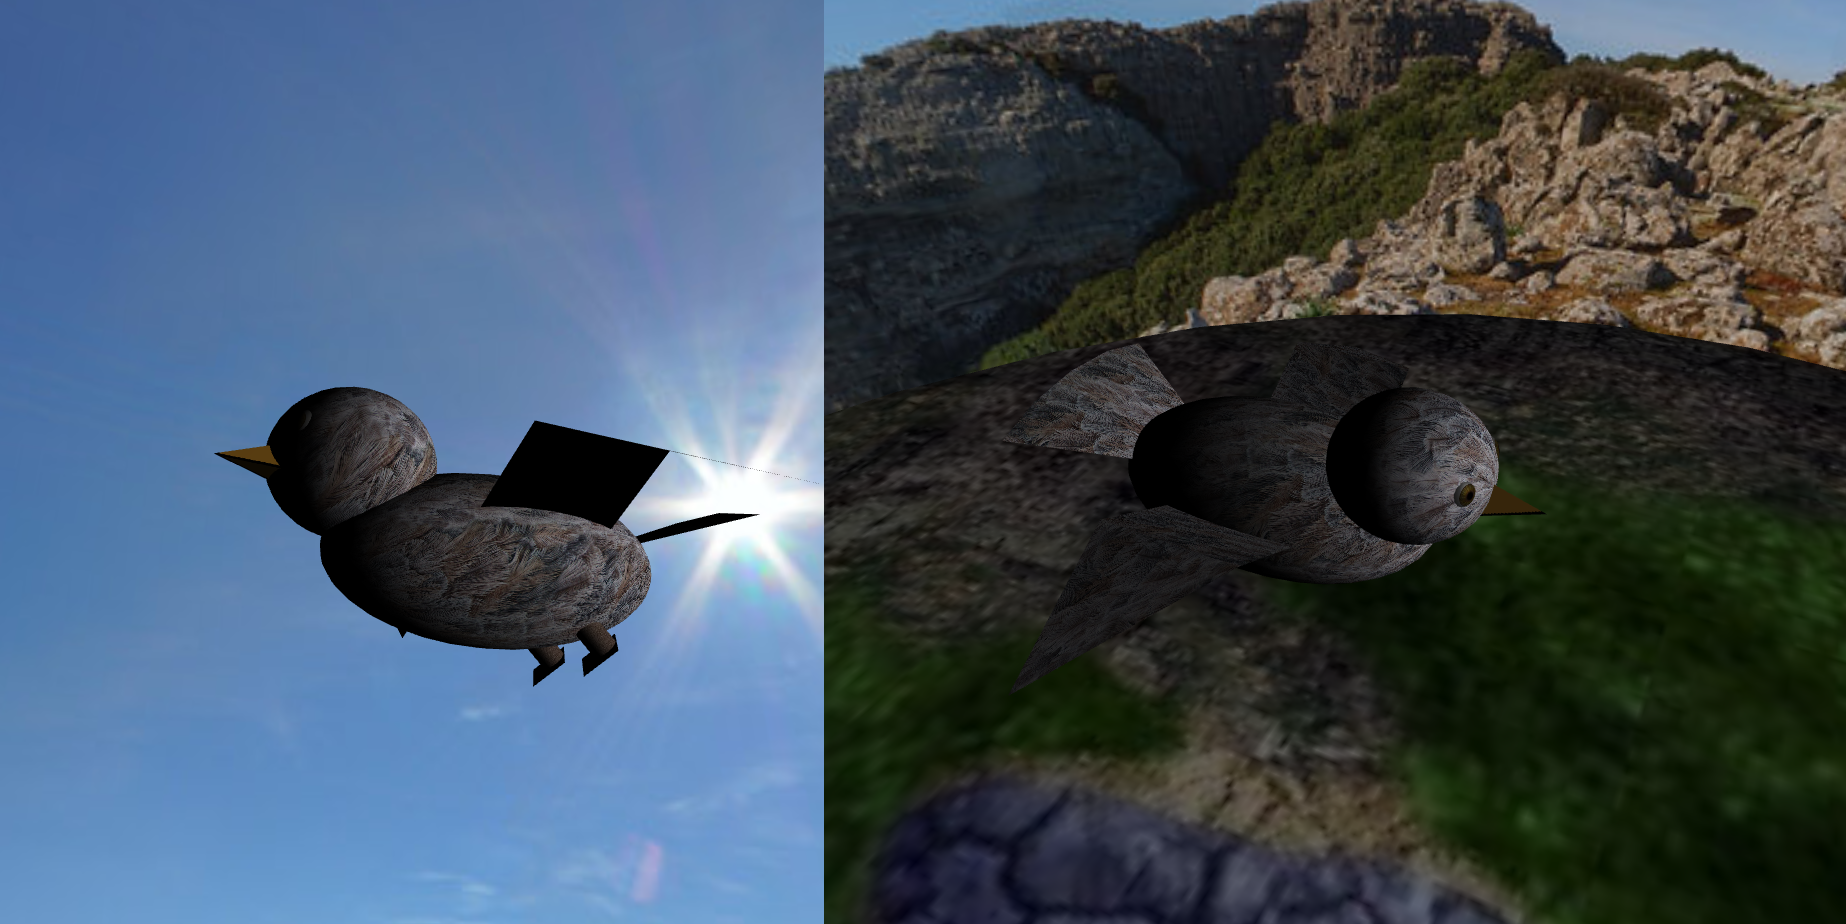
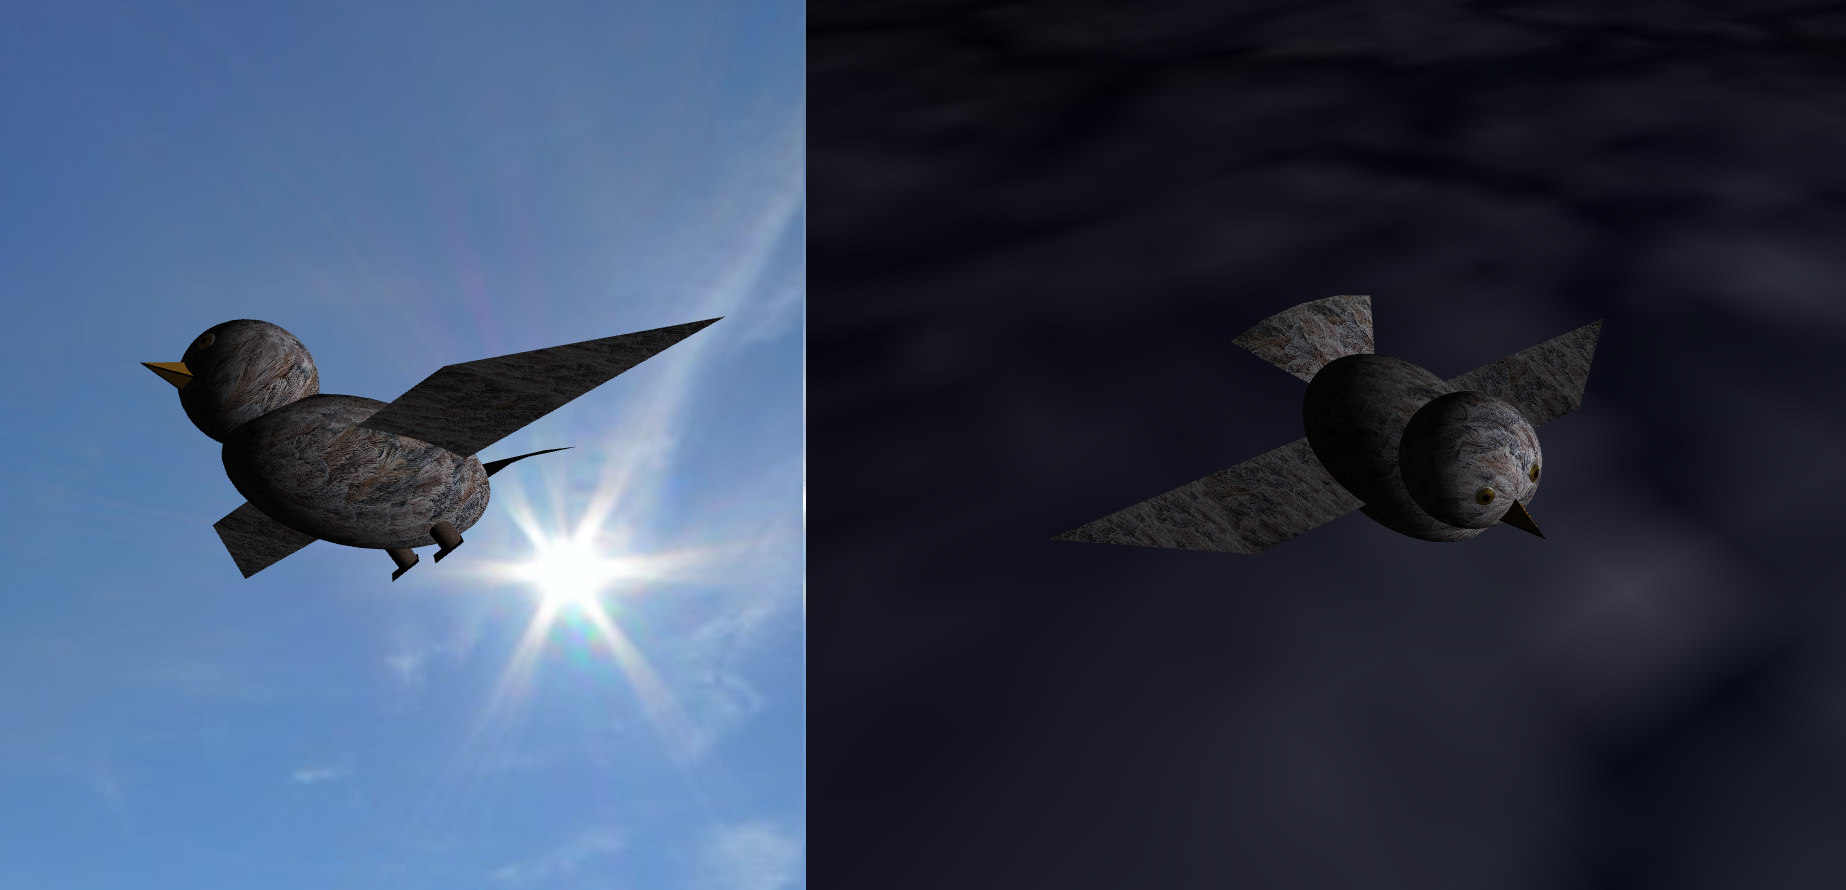
Project - Minor adjustments, updated README.md (3)

diff --git a/project/MyBird.js b/project/MyBird.js
@@ -24,7 +24,7 @@ export class MyBird extends CGFobject {
 
     initParams() {
         this.x = 0;
-        this.y = 3;
+        this.y = 5;
         this.z = 0;
         this.orientation = 0;
 
@@ -56,9 +56,9 @@ export class MyBird extends CGFobject {
     update(t, dt) {
         // Divide 't' and 'dt' by 1000 to convert into seconds.
         // Multiply by 2*Math.PI to get a period of 1 second.
-        this.dy = this.yScale * Math.sin(this.speedFactor * (t / 1000) * 2*Math.PI);
+        this.dy = this.yScale * Math.sin((t/1000) * 2*Math.PI);
         this.dWingAngle = 
-            -Math.sin(this.speedFactor * (1 + this.speed * this.speedScale) * (t / 1000) * 2*Math.PI);
+            -Math.sin(this.speedFactor * (1 + this.speed * this.speedScale) * (t/1000) * 2*Math.PI);
         this.x += this.speed * this.speedFactor * Math.sin(this.orientation) * (dt/1000);
         this.z += this.speed * this.speedFactor * Math.cos(this.orientation) * (dt/1000);   
 
@@ -69,7 +69,7 @@ export class MyBird extends CGFobject {
     }
 
     turn(v) {
-        this.orientation = (this.orientation + v) % (2*Math.PI);
+        this.orientation = (this.orientation + v * this.speedFactor) % (2*Math.PI);
     }
 
     resetBird() {
@@ -243,14 +243,14 @@ class BirdLeg extends CGFobject {
 
     initParts() {
         this.leg = new MyCylinder(this.scene, 24, 8, 1, 1);
-        this.claw = new MyDiamond(this.scene, 1, 1);
+        this.foot = new MyDiamond(this.scene, 1, 1);
     }
     initMaterials() {
         this.skinMaterial = new CGFappearance(this.scene);
         this.skinMaterial.loadTexture('images/skin.jpg');
         this.skinMaterial.setSpecular(0.0, 0.0, 0.0, 1.0);
-        this.skinMaterial.setDiffuse(1.0, 1.0, 1.0, 1.0);
-        this.skinMaterial.setAmbient(0.0, 0.0, 0.0, 1.0);
+        this.skinMaterial.setDiffuse(0.9, 0.9, 0.9, 1.0);
+        this.skinMaterial.setAmbient(0.1, 0.1, 0.1, 1.0);
 
     }
     display() {
@@ -269,7 +269,7 @@ class BirdLeg extends CGFobject {
         this.scene.translate(0.15, -0.646, -0.946);
         this.scene.rotate(-Math.PI/4, 1, 0, 0);
         this.scene.scale(0.1, 0.12, 1);
-        this.claw.display();
+        this.foot.display();
         this.scene.popMatrix();
     }
 

diff --git a/project/MyScene.js b/project/MyScene.js
@@ -59,8 +59,8 @@ export class MyScene extends CGFscene {
       1.0,
       0.1,
       1000,
-      vec3.fromValues(50, 10, 15),
-      vec3.fromValues(0, 0, 0)
+      vec3.fromValues(5, -90, -5),
+      vec3.fromValues(0, -95, 0)
     );
     this.camera.zoom(50);
   }
@@ -133,15 +133,15 @@ export class MyScene extends CGFscene {
     // ---- BEGIN Primitive drawing section
 
     this.pushMatrix();
-    this.appearance.apply();
     this.translate(0,-100,0);
+    this.bird.display();
     this.scale(400,400,400);
     this.rotate(-Math.PI/2.0,1,0,0);
+    this.appearance.apply();
     this.plane.display();
     this.popMatrix();
 
     this.panorama.display(this.camera.position);
-    this.bird.display();
     // ---- END Primitive drawing section
   }
 }

diff --git a/project/README.md b/project/README.md
@@ -16,8 +16,19 @@
 #### Subpoint 1 - Model
 - The bird class *MyBird* contains several body parts which are classes themselves too (*BirdWing*, *BirdHead*, etc.). This allows for better flexiblity when it comes to customizing and later animating the bird, as each body section is its own entity.
 - To model the bird, objects created from previous tasks were used, such as cones, cylinders, pyramids, etc. These objects were transformed using the transformation functions learnt during classes (scaling, rotation, translation) in order to shape and position them and make up the bird. The object classes were modified to better suit the project, such as to construct the **texCoords** array to enable the use of textures on the them.
-- There's a unique material for every texture applied to the bird. The eyes have a high specular component and low diffuse component, the feathers and beak have a high diffuse component and some specular component, and the skin texture used for the legs and claws only have a diffuse component. None of the materials have an ambient component.
- 
+- There's a unique material for every texture applied to the bird. The eyes have a high specular component and low diffuse component, the feathers, beak and the skin for the legs and feet have a high diffuse component and some specular component.
+
+#### Subpoint 2 - Animations
+- The height and wing flapping animation are synced due to sharing the same base time period. This being equivalent to 1 second, achieved by having a factor of $2\pi$ inside the $\sin$ function used to update the animation control variables (`dy` and `dWingAngle`).
+- To update the animation control variables, time was converted into seconds. Furthermore, for these animations, the timestamp of each frame is used.
+- A sinusoidal function is described as $A\times\sin(\omega t + \phi)$. The relevant term here is $\omega$, which defines the rate of change of the function. The higher it is, the faster the rate of change, the lower the period becomes, and vice-versa. For the second animation, the bird's speed is used as the rate of change, $\omega$, thus as the bird speeds up, so will the flapping of the wings. 
+
+#### Subpoint 3 - Control
+- As suggested, the bird keeps track of its orientation as the angle around the YY axis. This allows to determine the **x** and **z** components by thinking of the bird's direction as a vector around a unit circle centered at the YY axis, and using either the $\sin$ or $\cos$ functions, and the angle of that vector being given by the bird's orientation.
+- To get the displacement, the motion formula is used where $x = x_0 + v_x\times\delta t$. To attain $v_x$, the bird's speed is multiplied by the **x** component of the bird's direction, $sin(orientationAngle)$. $\delta t$ is the time between the last frame and the current frame, converted into seconds.
+- The bird is free to rotate in 360 degrees, and the speed is capped so that the bird doesn't accelerate forever.
+- The *speedFactor* is used similarly as the bird's speed in the wing flapping animation, working as another multiplicative factor to influence the rate of change of the sinusoidal function.
+
 ## Screenshots
 | ![Screenshot 1](screenshots/project-t03g06-1.gif) |
 |:--:|
